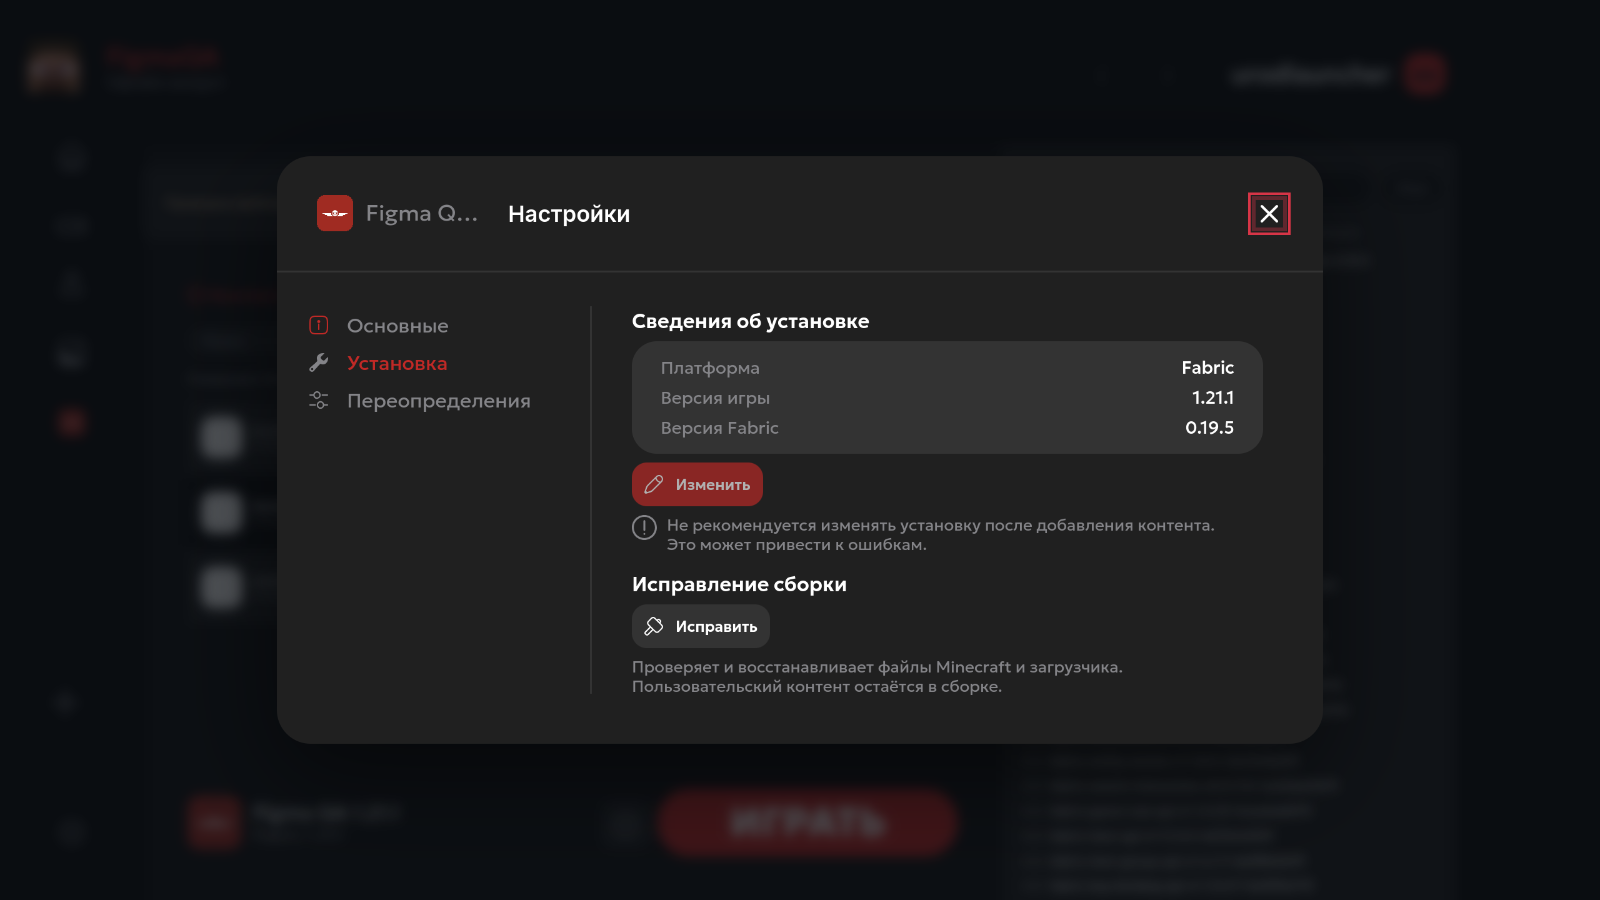
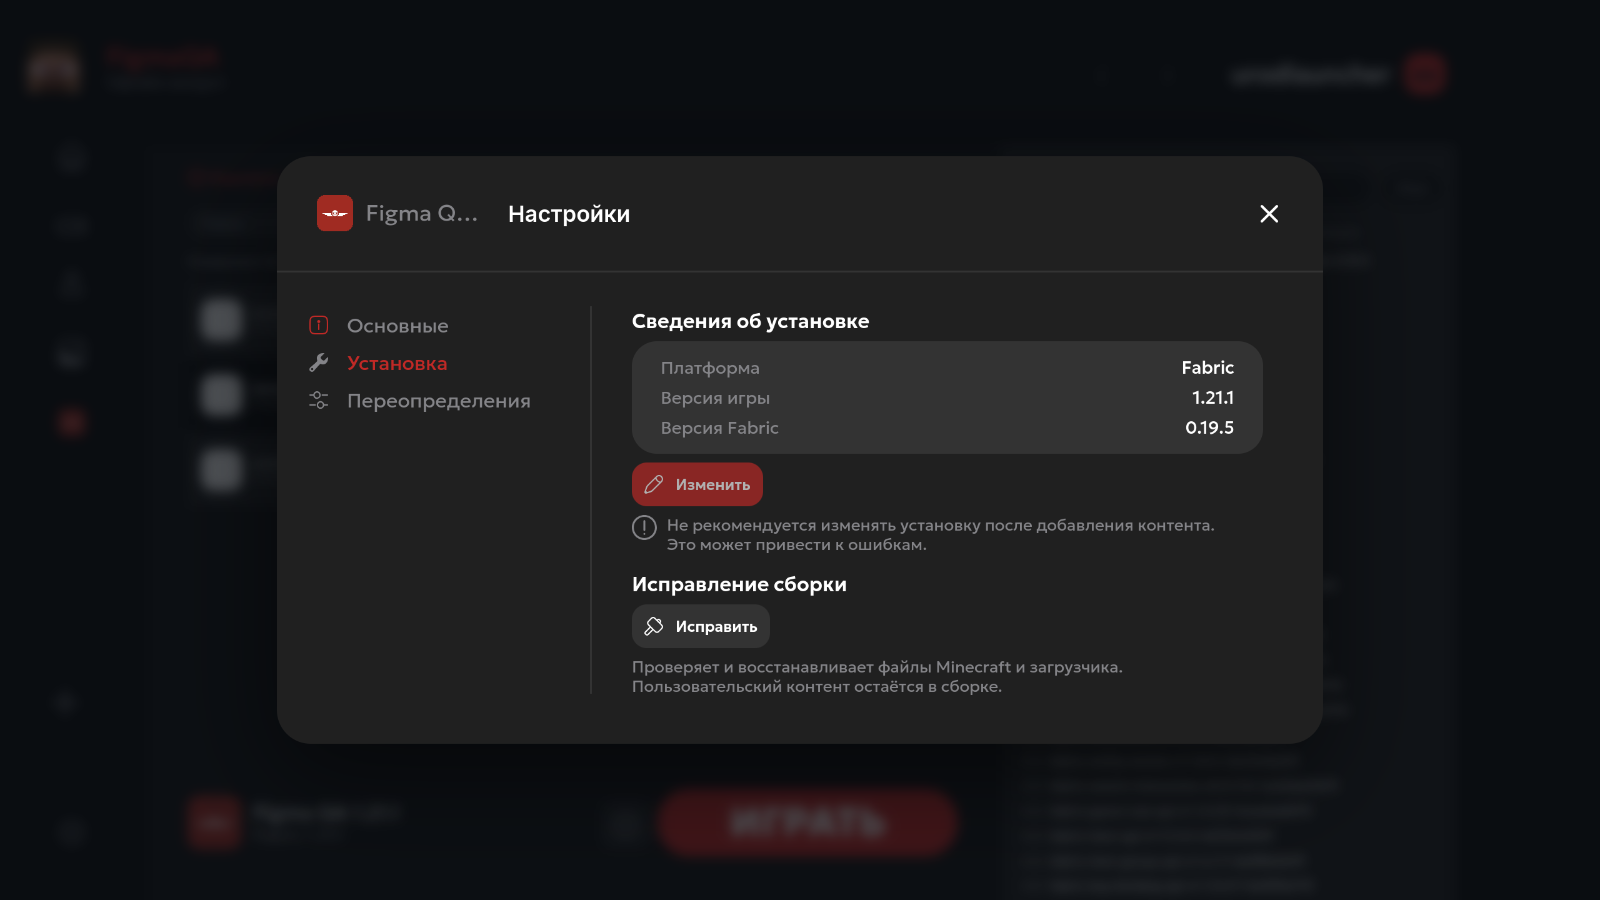
fix(ui): focus pack settings heading on open

diff --git a/apps/app-frontend/src/components/LibraryPage.vue b/apps/app-frontend/src/components/LibraryPage.vue
@@ -341,6 +341,12 @@ function showManage(instance: Instance, action: 'rename' | 'duplicate' | 'delete
 	packSettingsTab.value = 'main'
 	error.value = ''
 	if (!manageDialog.value?.open) manageDialog.value?.showModal()
+	if (action === 'configure')
+		void nextTick(() =>
+			manageDialog.value
+				?.querySelector<HTMLElement>('#manage-title')
+				?.focus({ preventScroll: true }),
+		)
 }
 async function saveManagedName() {
 	if (!managed.value || manageName.value.trim() === managed.value.name) return
@@ -1209,7 +1215,7 @@ onUnmounted(() => {
 				<header class="figma-pack-header">
 					<img class="figma-pack-mark" :src="managed.icon || '/figma/8aecb.png'" alt="" />
 					<span>{{ managed.name }}</span
-					><b id="manage-title">Настройки</b>
+					><b id="manage-title" tabindex="-1">Настройки</b>
 					<button aria-label="Закрыть окно" :disabled="busy" @click="manageDialog?.close()">
 						<img src="/figma/20469.svg" alt="" />
 					</button>

diff --git a/apps/app-frontend/src/figma.css b/apps/app-frontend/src/figma.css
@@ -194,6 +194,11 @@
 		600 18px/1.2 Inter,
 		sans-serif;
 }
+.figma-pack-header > b:focus-visible,
+:root[data-focus-glow='true'] .figma-pack-header > b:focus-visible {
+	outline: none;
+	box-shadow: none;
+}
 .figma-pack-header > button {
 	position: absolute;
 	right: 32px;

diff --git a/docs/FIGMA_IMPLEMENTATION_MAP.md b/docs/FIGMA_IMPLEMENTATION_MAP.md
@@ -16,7 +16,7 @@ The page metadata lists 23 top-level frames: 16 settings windows at 837×470, fi
 | `3:104` | Java locations, 837×470 | `FigmaGlobalSettings.vue`, `JavaRuntimeDialog.vue` | `figma.css`, original search, folder and check SVGs | Separate Java 25 and 21 paths persisted and validated; detect and choose; per-pack override takes priority | Native Tauri frame compared, 2.91/255 mean RGB error; recommended runtime installation remains unavailable |
 | `3:199` | Resource management, 837×470 | `FigmaGlobalSettings.vue` | `figma.css`, original switch and trash SVGs | Displays real data directory; report and cache controls clearly disabled until backend support | Native Tauri frame compared, 3.89/255 mean RGB error; text differs to describe actual behavior |
 | `3:11` | Pack main, 837×470 | `LibraryPage.vue` | `figma.css`, exported pack SVGs | Rename, duplicate, delete | Native Tauri frame compared, 3.37/255 mean RGB error; sample name and deletion semantics differ |
-| `3:422` | Pack installation, 837×470 | `LibraryPage.vue` | `figma.css`, original edit, warning and repair SVGs | Installation details; verified-file repair for ready custom packs; migration and official-pack repair disabled | Native crop compared at 5.08/255; corrupt QA client JAR was restored without changing checked user content |
+| `3:422` | Pack installation, 837×470 | `LibraryPage.vue` | `figma.css`, original edit, warning and repair SVGs | Installation details; verified-file repair for ready custom packs; migration and official-pack repair disabled | Native crop compared at 5.00/255; corrupt QA client JAR was restored without changing checked user content |
 | `3:463` | Pack window and memory overrides, 837×470 | `LibraryPage.vue` | `figma.css`, original pack shell assets | Optional pack width/height override persists, outranks global dimensions; per-pack RAM persists; fullscreen disabled | Native comparison 4.16/255 mean RGB error; Fabric launch used pack dimensions and fell back to global dimensions after disabling |
 | `3:530` | Pack Java override, 837×470 | `LibraryPage.vue` | `figma.css`, original Java detect, choose and check SVGs | Detect the required Java major, choose an executable, save or clear the override | Native comparison 5.15/255 mean RGB error; local Java path differs from the Windows example |
 | `3:588` | Pack launch commands, 837×470 | `LibraryPage.vue` | `figma.css`, original settings shell | Read-only layout; execution controls explicitly disabled | Native comparison 4.37/255 mean RGB error; command execution remains unavailable |
@@ -66,7 +66,7 @@ The [pack content reference](figma-reference/frame-3-713.png) and [real Tauri ca
 
 The [selected-pack browser reference](figma-reference/frame-3-888.png) and [real Tauri capture](screenshots/figma-rc/mod-browser-physical-125pct.png) have a [50% overlay](figma-reference/mod-browser-overlay.png) and [difference image](figma-reference/mod-browser-diff.png). After correcting the row gap, the first two list items begin at (150, 242) and (150, 332), matching the frame. The normalized mean absolute RGB error is 4.38/255. Actual Modrinth project names, descriptions and icons differ from the Figma examples. [A separate 860×620 capture](screenshots/figma-rc/mod-browser-860-physical-125pct.png) records the smaller window.
 
-The global settings [Figma frame](figma-reference/settings-3-47.png) and [running Tauri crop](screenshots/figma-rc/settings-global-837x470.png) have a mean absolute RGB error of 4.18/255; the [difference image](figma-reference/settings-global-diff.png) shows the remaining font and antialiasing differences. The pack main [Figma frame](figma-reference/settings-3-11.png) and [running Tauri crop](screenshots/figma-rc/settings-pack-837x470.png) have 3.37/255 mean absolute RGB error. The live test pack has a different name from the Figma example, and the deletion copy reflects the existing recoverable trash behavior. [Pack installation](screenshots/figma-rc/settings-pack-install-837x470.png) now uses the Figma section spacing and original button/warning icons; its [Figma reference](figma-reference/settings-3-422.png), [overlay](figma-reference/settings-pack-install-overlay.png), and [difference image](figma-reference/settings-pack-install-diff.png) compare at 5.08/255 mean absolute RGB error. The sample pack name/version and explanatory text differ; migration remains disabled. [Pack overrides](screenshots/figma-rc/settings-pack-overrides-837x470.png) and [resource settings](screenshots/figma-rc/settings-resources-837x470.png) remain native captures with unresolved differences. These screens are not ready for a Stable visual pass.
+The global settings [Figma frame](figma-reference/settings-3-47.png) and [running Tauri crop](screenshots/figma-rc/settings-global-837x470.png) have a mean absolute RGB error of 4.18/255; the [difference image](figma-reference/settings-global-diff.png) shows the remaining font and antialiasing differences. The pack main [Figma frame](figma-reference/settings-3-11.png) and [running Tauri crop](screenshots/figma-rc/settings-pack-837x470.png) have 3.37/255 mean absolute RGB error. The live test pack has a different name from the Figma example, and the deletion copy reflects the existing recoverable trash behavior. [Pack installation](screenshots/figma-rc/settings-pack-install-837x470.png) now uses the Figma section spacing and original button/warning icons; its [Figma reference](figma-reference/settings-3-422.png), [overlay](figma-reference/settings-pack-install-overlay.png), and [difference image](figma-reference/settings-pack-install-diff.png) compare at 5.00/255 mean absolute RGB error. The initial programmatic focus is on the dialog heading, keeping the close button's keyboard focus ring for Tab navigation. The sample pack name/version and explanatory text differ; migration remains disabled. [Pack overrides](screenshots/figma-rc/settings-pack-overrides-837x470.png) and [resource settings](screenshots/figma-rc/settings-resources-837x470.png) remain native captures with unresolved differences. These screens are not ready for a Stable visual pass.
 
 The resource management [Figma frame](figma-reference/frame-3-199.png) and updated [native crop](screenshots/figma-rc/settings-resources-837x470.png) have a [50% overlay](figma-reference/settings-resources-overlay.png) and [difference image](figma-reference/settings-resources-diff.png). The normalized mean absolute RGB error is 3.89/255. A [native 860×620 screenshot](screenshots/figma-rc/settings-resources-860-physical-125pct.png) confirms the form and close control remain visible. Cache deletion and extended reports remain explicitly unavailable, pending safe backend operations.
 

diff --git a/docs/TESTING.md b/docs/TESTING.md
@@ -55,6 +55,7 @@ Updated: 2026-10-23. Branch: `release/1.0.0-figma-stable`. Results describe only
 | Verified-download replacement after atomicity fix | Pass: `cargo test --locked -p urod-launcher-core --lib` ran 55 tests with 4 ignored; the new test replaced an existing file and confirmed a failed rename into an existing directory left that directory in place and removed the staging file. `cargo clippy --locked -p urod-launcher-core --all-targets -- -D warnings` passed. A fresh native Tauri session deliberately truncated the isolated QA `1.21.1.jar` to 1024 bytes, repaired the Fabric pack through the Figma button, and returned to `ready` with no job error. The final JAR SHA-256 matched its pre-corruption value; the same four user-content hashes remained unchanged and no `.part` files remained. This does not simulate power loss or every Windows filesystem behavior. |
 | Full app/core Rust test run after replacement fix | `cargo test --locked -p urod-launcher -p urod-launcher-core` passed locally: 34 app tests and 55 core tests; 2 app, 4 core and three live integration tests remained ignored by default. No ignored test is counted as passed. |
 | Pack installation settings at 860×620 | Pass in native Tauri at 125% display scale: the Figma `3:422` panel fits within the viewport, the repair button and explanation are visible without scrolling, and document width/height equal the 860×620 viewport. [Native screenshot](screenshots/figma-rc/settings-pack-install-860x620-physical-125pct.png). |
+| Pack dialog initial keyboard focus | Pass in native Tauri at 1280×720: opening the Figma pack settings focused its heading, leaving the close icon unoutlined in the initial state. Pressing Tab moved focus to the close button with `:focus-visible` active. The refreshed `3:422` crop compares at 5.00/255 mean absolute RGB difference; sample pack data still differs from Figma. |
 | Pack launch commands and help | Native captures of Figma `3:588` and `3:629` compare at 4.37 and 2.58/255 mean RGB difference. Shell command inputs are disabled; this is a visual check, not a command-execution pass. |
 | Pack synchronization panel | Native Figma `3:648` capture compared at 6.98/255. Five unavailable controls are disabled; the `Глобальные настройки` button navigated to `#/settings` and rendered the real settings page without horizontal overflow. Synchronization itself was not exercised because it is unimplemented. |
 | Resource limits and backups | Figma `3:236` native capture compared at 4.49/255. The download limit was changed from 6 to 4 through the UI, saved in `snapshot`, and read back as 4 after restarting Tauri. The backup button opened/created the local `backups` directory without a native error. A temporary symlink from that QA directory to `/tmp` was rejected by the native command, then removed and the original directory restored. At 860×620, the controls remained visible without document horizontal overflow. The independent write limit remains disabled. |

diff --git a/docs/CHANGELOG.md b/docs/CHANGELOG.md
@@ -10,6 +10,7 @@
 - Refreshed the account preview when an active local skin is deleted and kept the deletion result visible when the library becomes empty.
 - Restored the exact Figma gallery control positions and 190 px sort selector, and used the original Figma search icon for extra filters. The control no longer overlaps Sort at 1240×820 or clips against the scroll rail at narrow and maximized widths.
 - Enabled the Figma pack-installation repair action for ready custom packs. It rechecks Minecraft and loader files in the background; a native QA run restored a deliberately corrupted client JAR while leaving checked mods, resource packs, shaders and pack data unchanged. The panel now uses the original edit, warning and repair icons and Figma section spacing.
+- Focused the pack settings heading when the dialog opens, so its initial appearance matches Figma while Tab still exposes the close button's focus state.
 - Replaced verified game downloads and Forge client patches with direct temporary-file rename over the previous cache entry. The old filename is no longer removed before the replacement is ready, and cancellation is checked before committing a download.
 - Transferred the pack content manager and selected-pack Modrinth browser from Figma frames `3:713` and `3:888`, retaining live installed content and real catalog data. Added shader and resource pack search, compatibility checks and installation through the existing backend.
 - Fixed direct links to installed shaders and resource packs so their Modrinth type is recovered from project metadata even when the URL has no type parameter.
